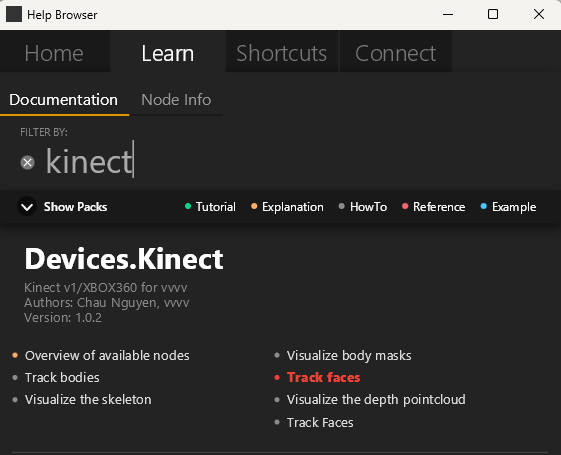
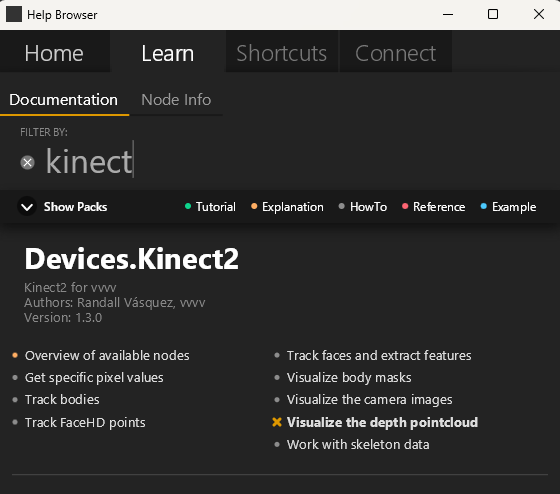
Added info about Kinect2 and removed info about kinect1

diff --git a/README.md b/README.md
@@ -4,22 +4,25 @@ Before we meet on September 29, make sure each group have at least on windows 10
 
 - vvvv Gamma, latest stable version
     - https://visualprogramming.net/#Download
-- Once vvvv is installed, install BadMapper and the addon pack
+- Once vvvv is installed, install kinect2, BadMapper and the addon pack
     - click the Quad menu in the top right corner and select >Manage Nugets>Commandline.
     ![Alt text](/img/NuGet-CMD.png)
     - in the command promt, type:
+        - nuget install vl.devices.kinect2
         - nuget install vl.badmapper -pre
         - nuget install vl.addons
 
-## This section will change in the coming days
- install the Kinect 360 nuget
-    - click the Quad menu in the top right corner and select >Manage Nugets>Commandline.
+it will look something like this:
+![bla bla](/img/NugetKinect2.png)
+And then
+![bla bla](/img/NugetKinect2Result.png)
 
-the following CMD promt, you type the following: "nuget install vl.devices.kinect2"
-
-- Now install the kinect SDK from microsoft https://www.microsoft.com/en-us/download/details.aspx?id=40278 and reboot your computer
+- Now install the kinect SDK from microsoft https://www.microsoft.com/en-us/download/details.aspx?id=44559 and reboot your computer
 
 You should now be able to use the Kinect in vvvv gamma.
+
+To make sure that it is working, connect a Kinect2 (kinect one) device and then run the "Visualize the depth pointcloud" help patch, that you find by searching for kinect in the help browser.
+![Alt text](/img/KinectPointcloud.png)
 
 ## Finding help
 
